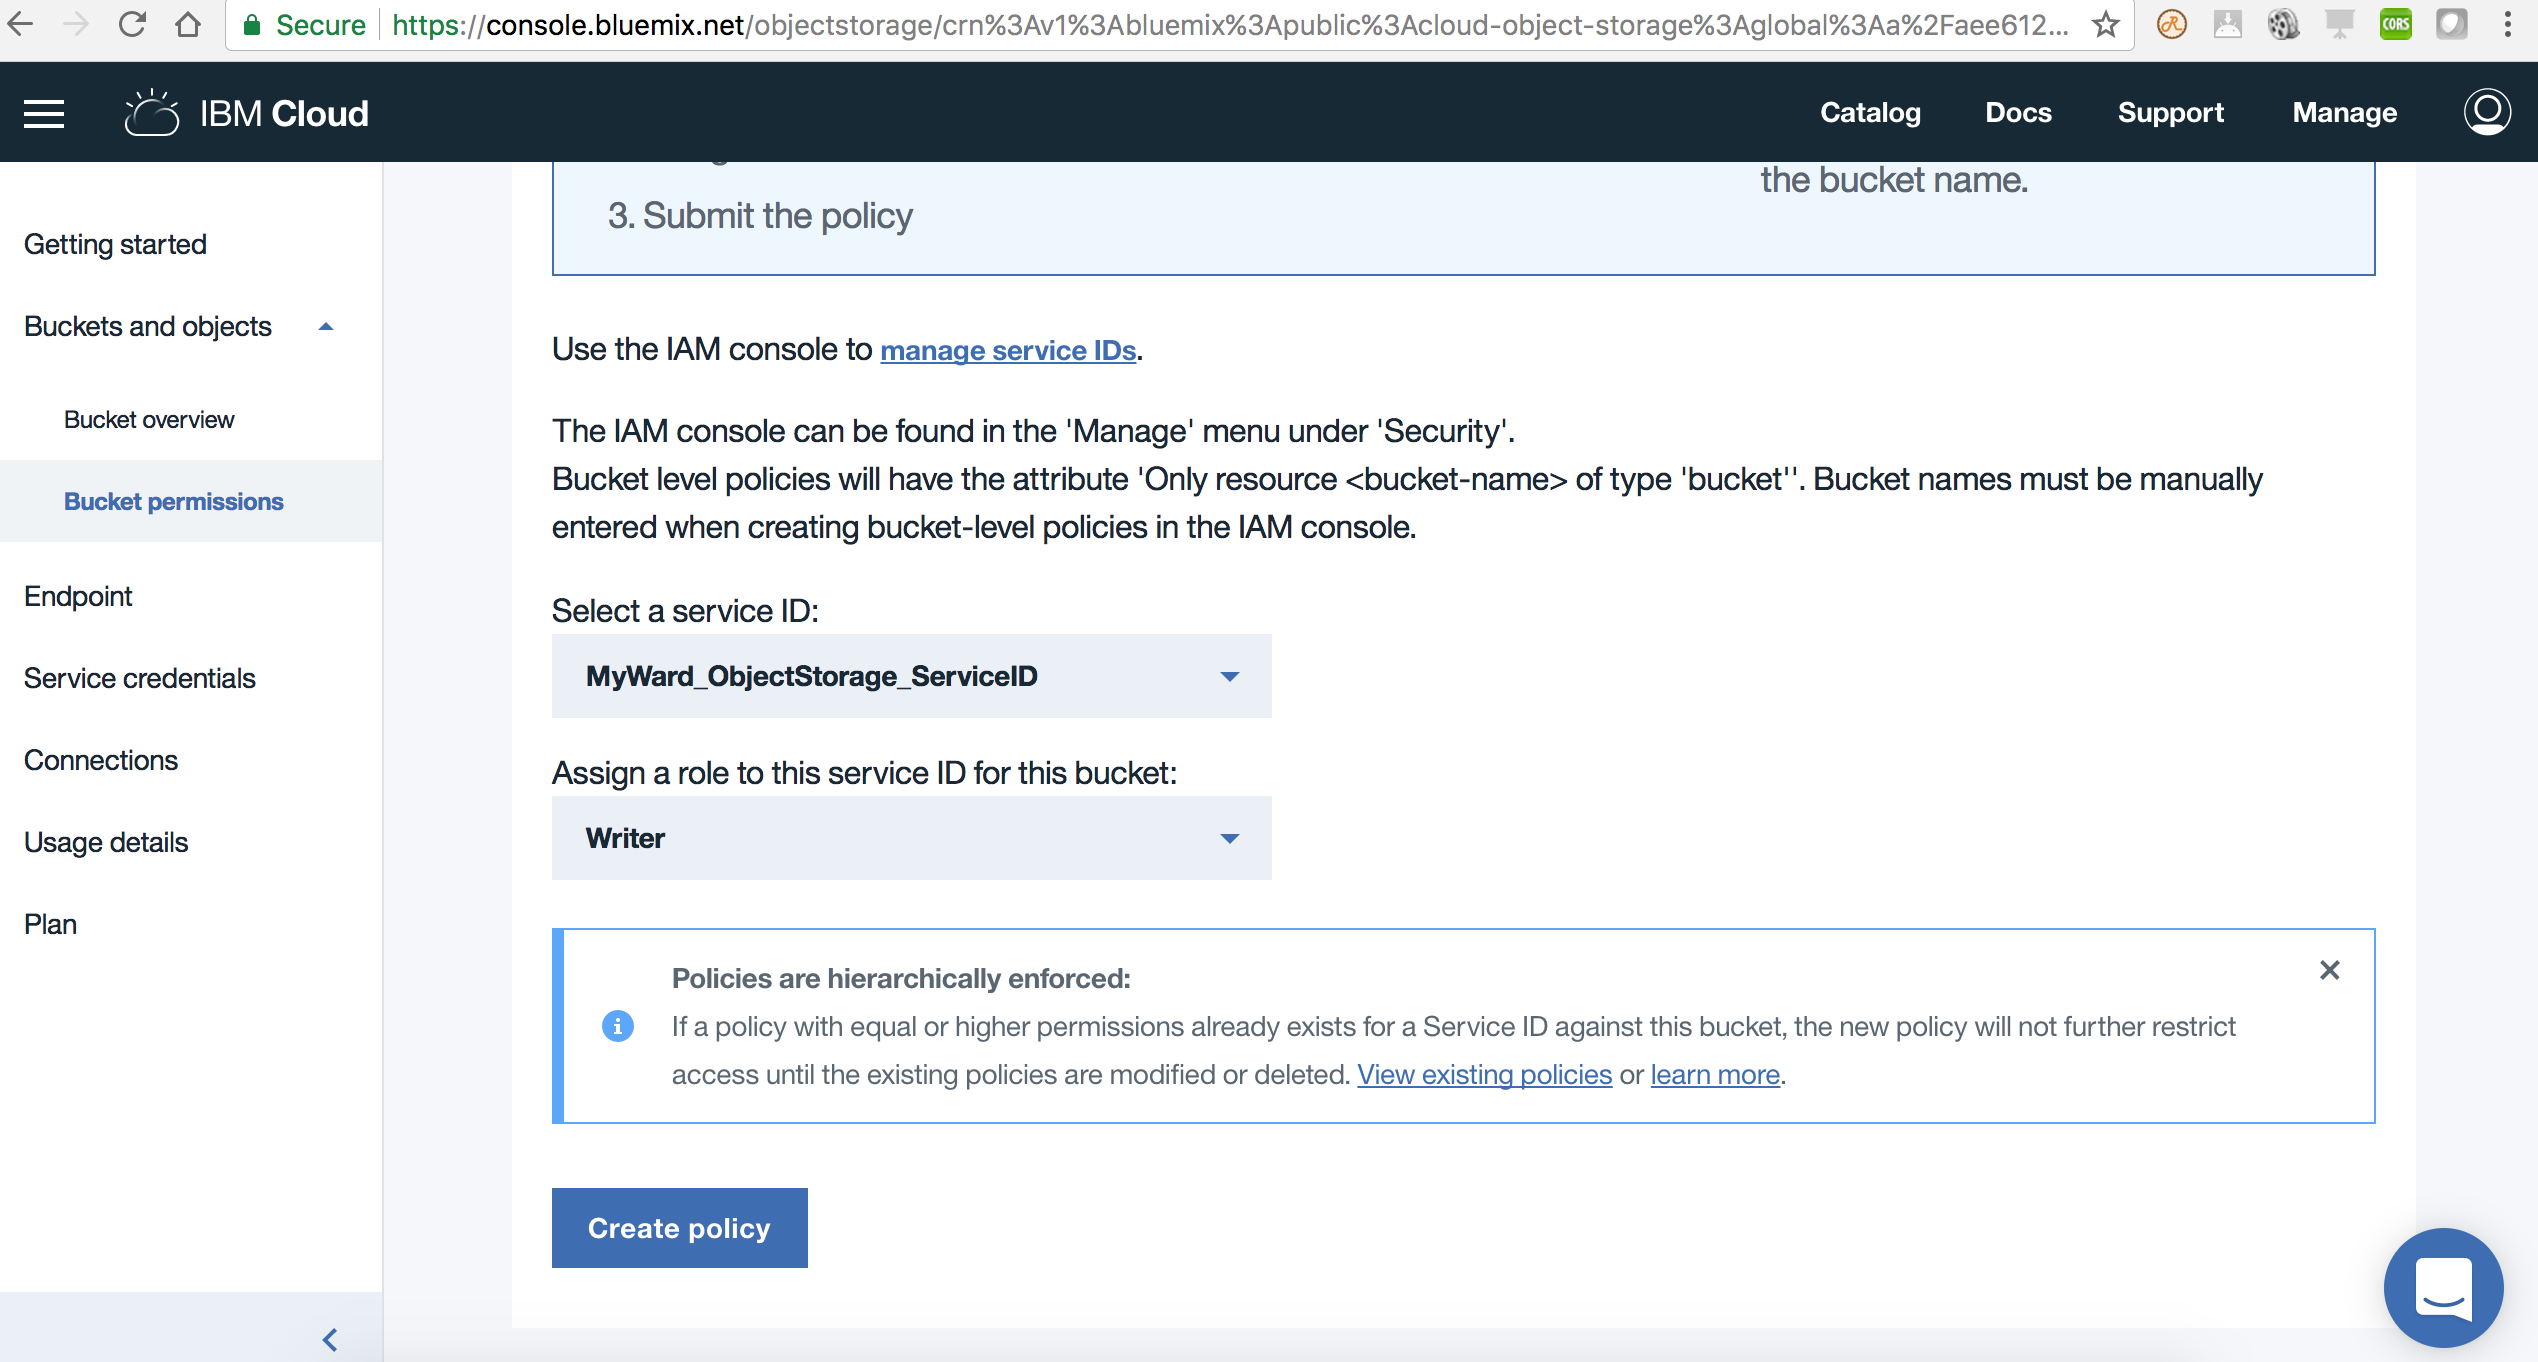
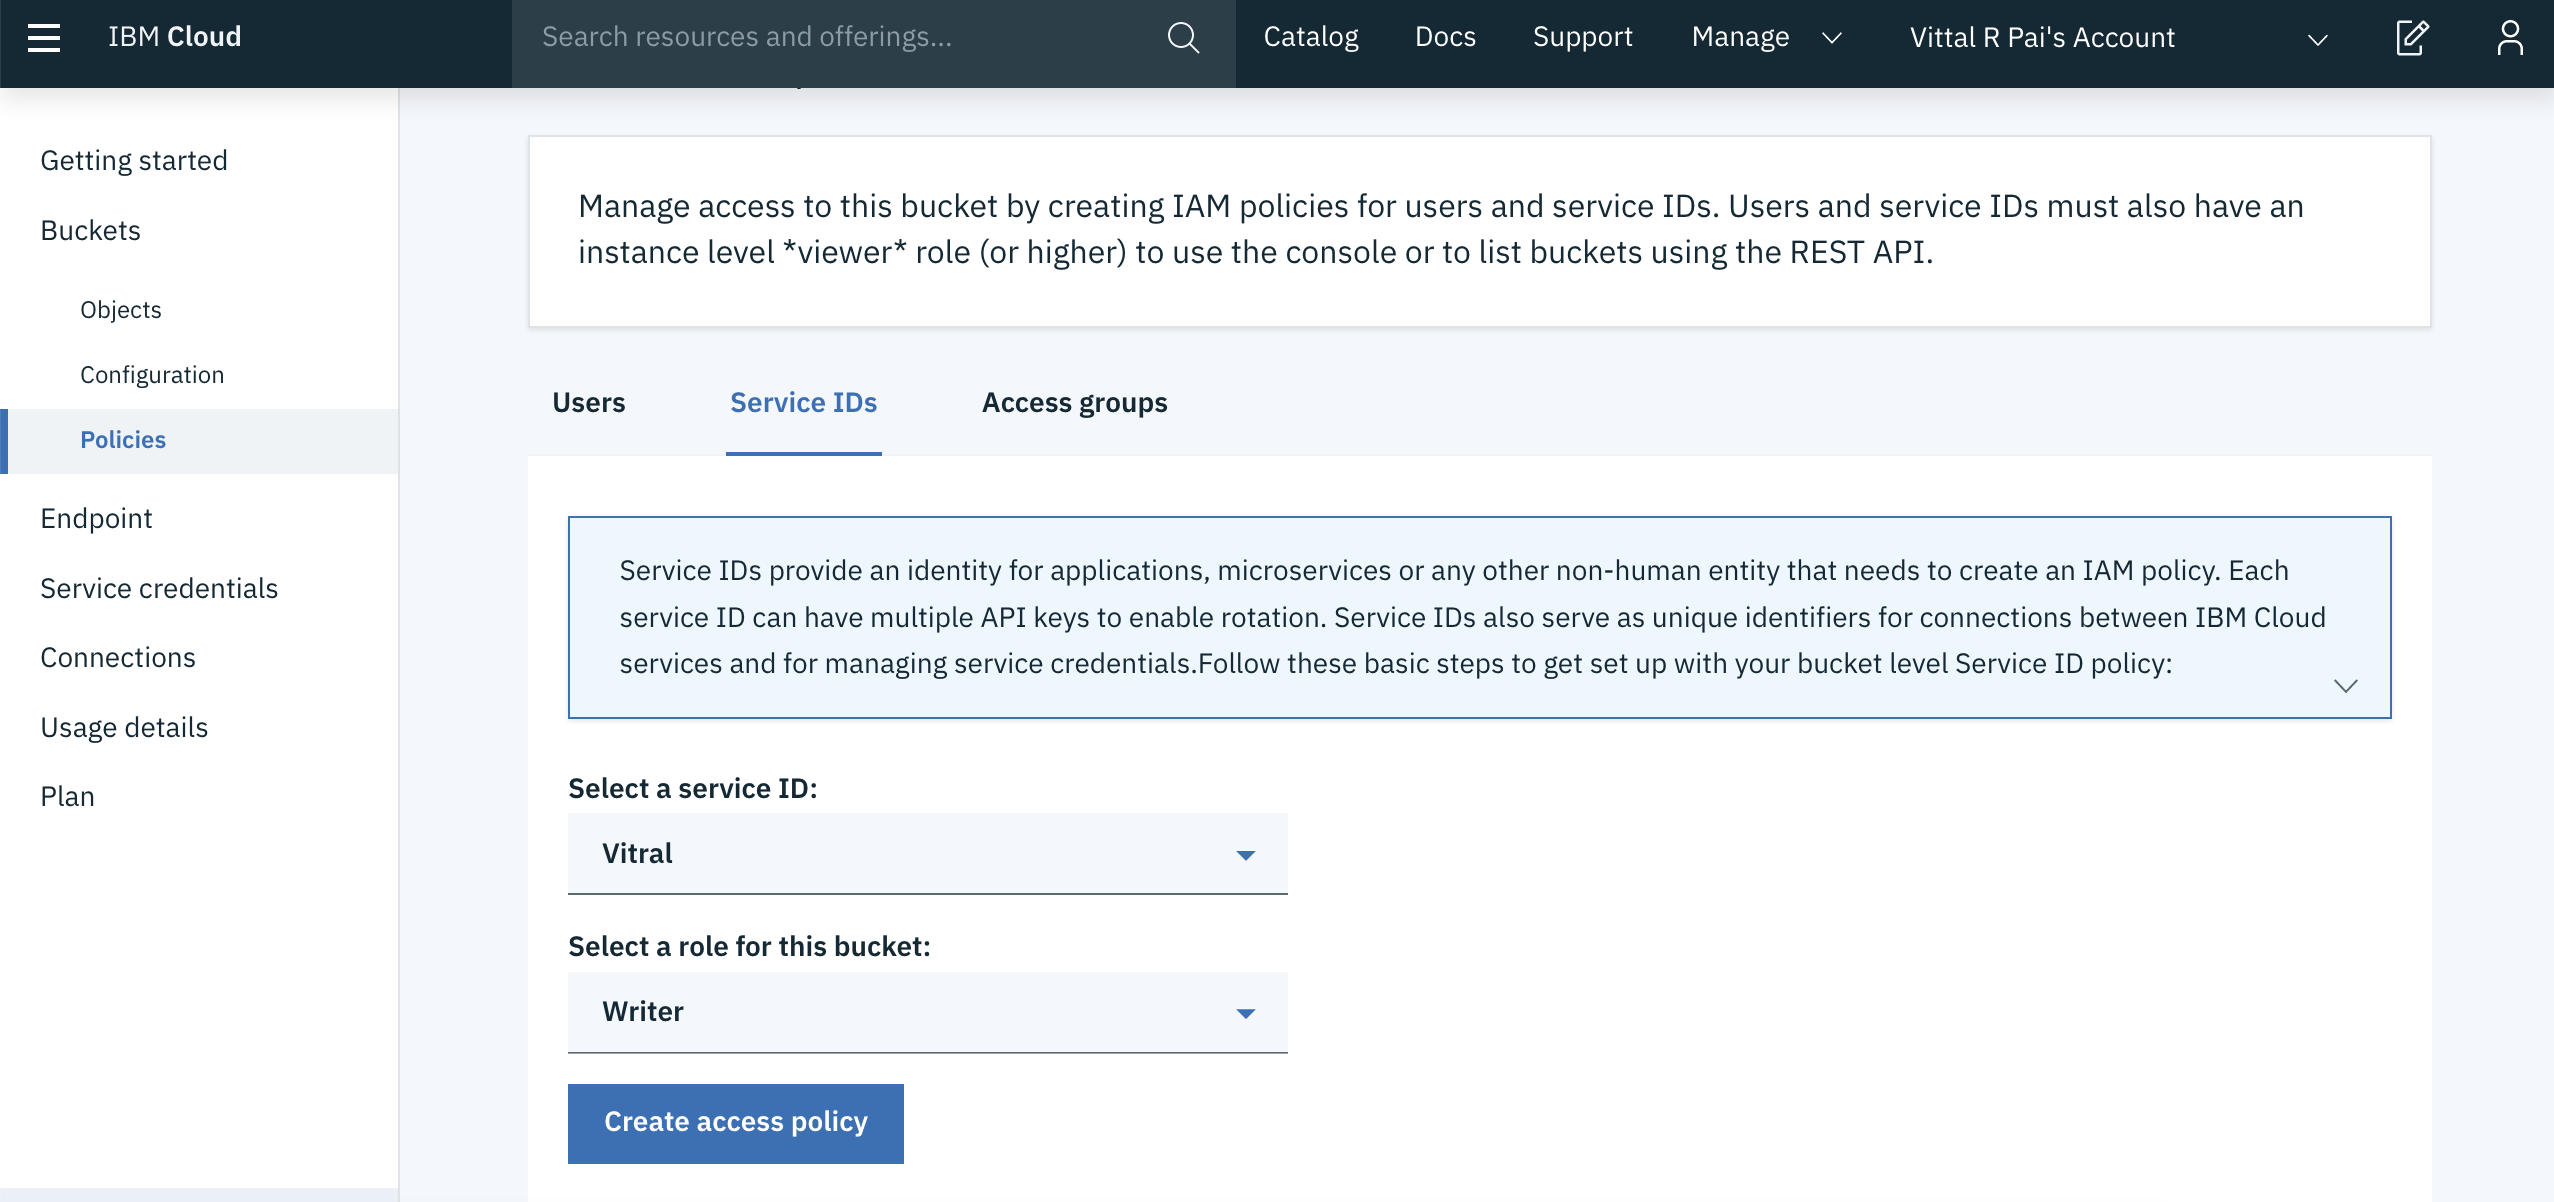
content update

diff --git a/install.md b/install.md
@@ -19,7 +19,7 @@ Install the following softare and create service instances as mentioned below:
     ```
     >**Note**: 
     >* If you are on Windows, instead of using `sudo`, run the above command (and the ones below) in a command prompt opened in administrative mode.
-    >** Please refer [MFP documentation](https://mobilefirstplatform.ibmcloud.com/tutorials/en/foundation/8.0/application-development/sdk/cordova/) for compatible versions of Cordova.
+    >* Please refer [MFP documentation](https://mobilefirstplatform.ibmcloud.com/tutorials/en/foundation/8.0/application-development/sdk/cordova/) for compatible versions of Cordova.
 
 3. Install Ionic and check the Ionic version by running the following command.
 
@@ -29,7 +29,7 @@ Install the following softare and create service instances as mentioned below:
     3.19.0
     ```
 
-4. Install IBM MobileFirst Platform CLI
+4. Install IBM Mobile Foundation CLI
 
     ```
     $ sudo npm install -g mfpdev-cli
@@ -48,7 +48,9 @@ Install the following softare and create service instances as mentioned below:
     ```
 
 6. Install Maven.
+
     On Mac, you can use `brew install` for installing Maven as shown below:
+
         ```
         $ /usr/bin/ruby -e "$(curl -fsSL https://raw.githubusercontent.com/Homebrew/install/master/install)"
         $ brew install maven
@@ -65,19 +67,34 @@ Install the following softare and create service instances as mentioned below:
 8. Install an [IDE for TypeScript](https://www.typescriptlang.org/index.html#download-links) such as [Atom](https://atom.io/) on Mac.
 
     After installing [Atom](https://atom.io/), install TypeScript plugin for Atom as shown below.
+
         ```
         apm install atom-typescript
         ```
 
-9. Create an [IBM Cloud account](https://cloud.ibm.com/registration), if you don't have one and login with your IBM Cloud credentials.
+9. Download and install Android Studio from [https://developer.android.com/studio/index.html](https://developer.android.com/studio/index.html).
 
-10. Create a Cloudant database by clicking on `Catalog` and select [*Cloudant*](https://cloud.ibm.com/catalog/services/cloudant) service under `Databases`. Click on `Create`.
+10. Install Android SDK Platform 23 (or higher) as below:
+    - Launch Android Studio.
+    - Click on `Configure` -> `SDK Manager`
+    - Make a note of the `Android SDK Location`.
+    - Under `SDK Platforms`, select `Android 6.0 (Marshmallow) API Level 23` or higher. Click `Apply` and then click `OK`. This will install Android SDK Platform on your machine.
 
-11. Create an IBM Cloud Object Storage service by clicking on `Catalog` and select [*Object Storage*](https://cloud.ibm.com/catalog/services/cloud-object-storage) service under `Storage`. Click on `Create`.
+    * Edit `IonicMobileApp/config.xml` and specify the API level in `android-targetSdkVersion` as shown below.
+        ```
+        &lt;preference name="android-minSdkVersion" value="16" /&gt;
+        &lt;preference name="android-targetSdkVersion" <b>value="23"</b> /&gt;
+        ```
+11. Create an [IBM Cloud account](https://cloud.ibm.com/registration), if you don't have one and login with your IBM Cloud credentials.
 
-12. Create an IBM Mobile Foundation service by clicking on `Catalog` and select [*Mobile Foundation*](https://cloud.ibm.com/catalog/services/mobile-foundation) service under `Web and Mobile`. Click on `Create`.
+12. Create a Cloudant database by clicking on `Catalog` and select [*Cloudant*](https://cloud.ibm.com/catalog/services/cloudant) service under `Databases`. Click on `Create`.
+
+13. Create an IBM Cloud Object Storage service by clicking on `Catalog` and select [*Object Storage*](https://cloud.ibm.com/catalog/services/cloud-object-storage) service under `Storage`. Click on `Create`.
+
+14. Create an IBM Mobile Foundation service by clicking on `Catalog` and select [*Mobile Foundation*](https://cloud.ibm.com/catalog/services/mobile-foundation) service under `Web and Mobile`. Click on `Create`.
 
 <hr>
+
 
 ## Configuration
 
@@ -142,11 +159,11 @@ The `myward` database should now list the six documents as shown below under `Ta
 
 * Log in to [IBM Cloud Dashboard](https://cloud.ibm.com/) with your credentials.
 
-* In the IBM Cloud Object Storage dashboard, select `Buckets and objects` page, click on `Create bucket`. Give a unique name for the bucket. Leave the default selections as-is for *Resiliency* (`Cross Region`), *Location* (`us-geo`) and *Storage class* (`Standard`), and click on `Create` as shown below.
+* In the IBM Cloud Object Storage dashboard, select `Buckets` page, click on `Create bucket`. Give a unique name for the bucket. Leave the default selections as-is for *Resiliency* (`Cross Region`), *Location* (`us-geo`) and *Storage class* (`Standard`), and click on `Create` as shown below.
 
     <img src="images/COS_CreateBucket.png" alt="Create a bucket in IBM Cloud Object Storage" width="800" border="10" />
 
-* The *Bucket overview* page for the newly created bucket will get shown. Click on `Add objects`. In `Upload obects` dialog, click on `Add files` and select all the images under [SampleData](SampleData) directory (the six images and their thumbnails). Click `Open`. Click on `Upload` as shown below. Once upload is complete, you should see the images listed under your bucket.
+* The *Bucket overview* page for the newly created bucket will get shown. Click on `Upload` button and then select `Files`. Select transfer type as `Standard Upload` and select all the images under [SampleData](SampleData) directory (the six images and their thumbnails). Click `Open`. Click on `Upload` as shown below. Once upload is complete, you should see the images listed under your bucket.
 
     <img src="images/COS_UploadObjects.png" alt="Upload objects to IBM Cloud Object Storage" width="800" border="10" />
 
@@ -155,13 +172,13 @@ The `myward` database should now list the six documents as shown below under `Ta
 * Create Service ID
     - In a separate browser tab/window, launch the *IBM Cloud Identity & Access Management* dashboard using URL https://cloud.ibm.com/iam/. 
     - In case you have multiple IBM Cloud accounts, then select the target Account, Region, Organization and Space.
-    - Under `Identity & Access` (on the left side of the page), select `Service IDs` and click `Create`. Give a name and description, and click `Create`.
-    - Make a note of the Service ID as shown below.
+    - Select `Service IDs` and click `Create`. Give a name and description, and click `Create`.
+    - Click on the newly created `Service ID` and make a note of the `Service ID` as shown below.
         <img src="images/IAM_CopyServiceID.png" alt="Copy Service ID from IBM Cloud Identity and Access Management dashboard" width="800" border="10" />
 
 * Add Cloud Object Storage *Writer* role to that service ID
-    - Back in *IBM Cloud Object Storage* dashboard, select `Bucket permissions` under `Buckets and objects`.
-    - Click on `Service IDs` tab. Under `Select a service ID`, select the service ID created in the above step. Under `Assign a role to this service ID for this bucket`, select `Writer`. Click `Create policy` as shown below. You should get a confirmation dialog saying “Service permission created“.
+    - Back in *IBM Cloud Object Storage* dashboard, select the newly created `Bucket` under `Buckets`.
+    - Click on `Policies`. In the `Service IDs` tab, under `Select a service ID`, select the service ID created in the above step. Under `Select a role to this bucket`, select `Writer`. Click `Create access policy` as shown below. You should get a confirmation dialog saying “Service permission created“.
 
         <img src="images/COS_CreatePolicyForServiceID.png" alt="Add Writer role to the Service ID in IBM Cloud Object Storage" width="800" border="10" />
 

diff --git a/downloadrepo.md b/downloadrepo.md
@@ -12,11 +12,11 @@ $ cd Ionic-MFP-App
 Update `IonicMobileApp/config.xml` as below. Change `id`, `name`, `description` and `author` details appropriately.
 
 ```
-&lt;?xml version='1.0' encoding='utf-8'?&gt;
-&lt;widget <b>id="org.mycity.myward"</b> version="0.0.1" xmlns="http://www.w3.org/ns/widgets" xmlns:cdv="http://cordova.apache.org/ns/1.0" xmlns:mfp="http://www.ibm.com/mobilefirst/cordova-plugin-mfp"&gt;
-    <b>&lt;name&gt;MyWard&lt;/name&gt;
-    &lt;description&gt;Get your civic issues resolved by posting through this app.&lt;/description&gt;
-    &lt;author email="shivahr@gmail.com" href="https://developer.ibm.com/code/author/shivahr/"&gt;Shiva Kumar H R&lt;/author&gt;</b>
+<?xml version='1.0' encoding='utf-8'?>
+<widget <b>id="org.mycity.myward"</b> version="0.0.1" xmlns="http://www.w3.org/ns/widgets" xmlns:cdv="http://cordova.apache.org/ns/1.0" xmlns:mfp="http://www.ibm.com/mobilefirst/cordova-plugin-mfp">
+    <b><name>MyWard</name>
+    <description>Get your civic issues resolved by posting through this app.</description>
+    <author email="shivahr@gmail.com" href="https://developer.ibm.com/code/author/shivahr/">Shiva Kumar H R</author></b>
 ...
 ```
 ## Specify Cloudant credentials in MFP adapter
@@ -27,13 +27,13 @@ Update `IonicMobileApp/config.xml` as below. Change `id`, `name`, `description` 
  * For property `DBName`, leave the default value of `myward` as-is.
 
     ```
-    &lt;mfp:adapter name="MyWardData" ...&gt;
-      <b>&lt;property name="account" displayName="Cloudant account" defaultValue=""/&gt;
-      &lt;property name="key" displayName="Cloudant key" defaultValue=""/&gt;
-      &lt;property name="password" displayName="Cloudant password" defaultValue=""/&gt;
-      &lt;property name="DBName" displayName="Cloudant DB name" defaultValue="myward"/&gt;</b>
+    <mfp:adapter name="MyWardData" ...>
+      <b><property name="account" displayName="Cloudant account" defaultValue=""/>
+      <property name="key" displayName="Cloudant key" defaultValue=""/>
+      <property name="password" displayName="Cloudant password" defaultValue=""/>
+      <property name="DBName" displayName="Cloudant DB name" defaultValue="myward"/></b>
       ...
-    &lt;/mfp:adapter&gt;
+    </mfp:adapter>
     ```
 
 ## Specify Cloud Object Storage credentials in MFP Adapter
@@ -44,11 +44,11 @@ Update `IonicMobileApp/config.xml` as below. Change `id`, `name`, `description` 
 * While creating the bucket in [Step 3.1](#31-create-ibm-cloud-object-storage), if you selected a different Location/Resiliency, then update the `endpointURL` as per the specification in https://cloud.ibm.com/docs/services/cloud-object-storage/basics/endpoints.html#select-regions-and-endpoints.
 
 ```
-&lt;mfp:adapter name="MyWardData" ...&gt;
+<mfp:adapter name="MyWardData" ...>
   ...
-  <b>&lt;property name="endpointURL" displayName="Cloud Object Storage Endpoint Public URL" defaultValue="https://s3-api.us-geo.objectstorage.softlayer.net"/&gt;
-  &lt;property name="bucketName" displayName="Cloud Object Storage Bucket Name" defaultValue=""/&gt;
-  &lt;property name="serviceId" displayName="Cloud Object Storage Service ID" defaultValue=""  /&gt;
-  &lt;property name="apiKey" displayName="Cloud Object Storage API Key" defaultValue=""/&gt;</b>
-&lt;/mfp:adapter&gt;
+  <b><property name="endpointURL" displayName="Cloud Object Storage Endpoint Public URL" defaultValue="https://s3-api.us-geo.objectstorage.softlayer.net"/>
+  <property name="bucketName" displayName="Cloud Object Storage Bucket Name" defaultValue=""/>
+  <property name="serviceId" displayName="Cloud Object Storage Service ID" defaultValue=""  />
+  <property name="apiKey" displayName="Cloud Object Storage API Key" defaultValue=""/></b>
+</mfp:adapter>
 ```

diff --git a/runtheapp.md b/runtheapp.md
@@ -1,19 +1,5 @@
 # Run the app on Android phone
 
-## Install Android Studio and Android SDK platform
-
-* Download and install Android Studio from [https://developer.android.com/studio/index.html](https://developer.android.com/studio/index.html)
-* Install Android SDK Platform 23 (or higher) as below:
-    - Launch Android Studio.
-    - Click on `Configure` -> `SDK Manager`
-    - Make a note of the `Android SDK Location`.
-    - Under `SDK Platforms`, select `Android 6.0 (Marshmallow) API Level 23` or higher. Click `Apply` and then click `OK`. This will install Android SDK Platform on your machine.
-* Edit `IonicMobileApp/config.xml` and specify the API level in `android-targetSdkVersion` as shown below.
-    ```
-    &lt;preference name="android-minSdkVersion" value="16" /&gt;
-    &lt;preference name="android-targetSdkVersion" <b>value="23"</b> /&gt;
-    ```
-
 ## Enable developer options and USB debugging on your Android phone
 
 * Enable USB debugging on your Android phone as per the steps in [https://developer.android.com/studio/debug/dev-options.html](https://developer.android.com/studio/debug/dev-options.html)

diff --git a/README.md b/README.md
@@ -24,6 +24,8 @@ When you have completed this pattern, you will understand:
 * Maven (for building the application)
 * Java SDK (for building the application)
 * Atom
+* Android Studio
+* Android SDK
 * IBM Cloud account credentials
 * IBM Mobile Foundation Service access credentials
 * IBM Cloud NoSQL DB service
